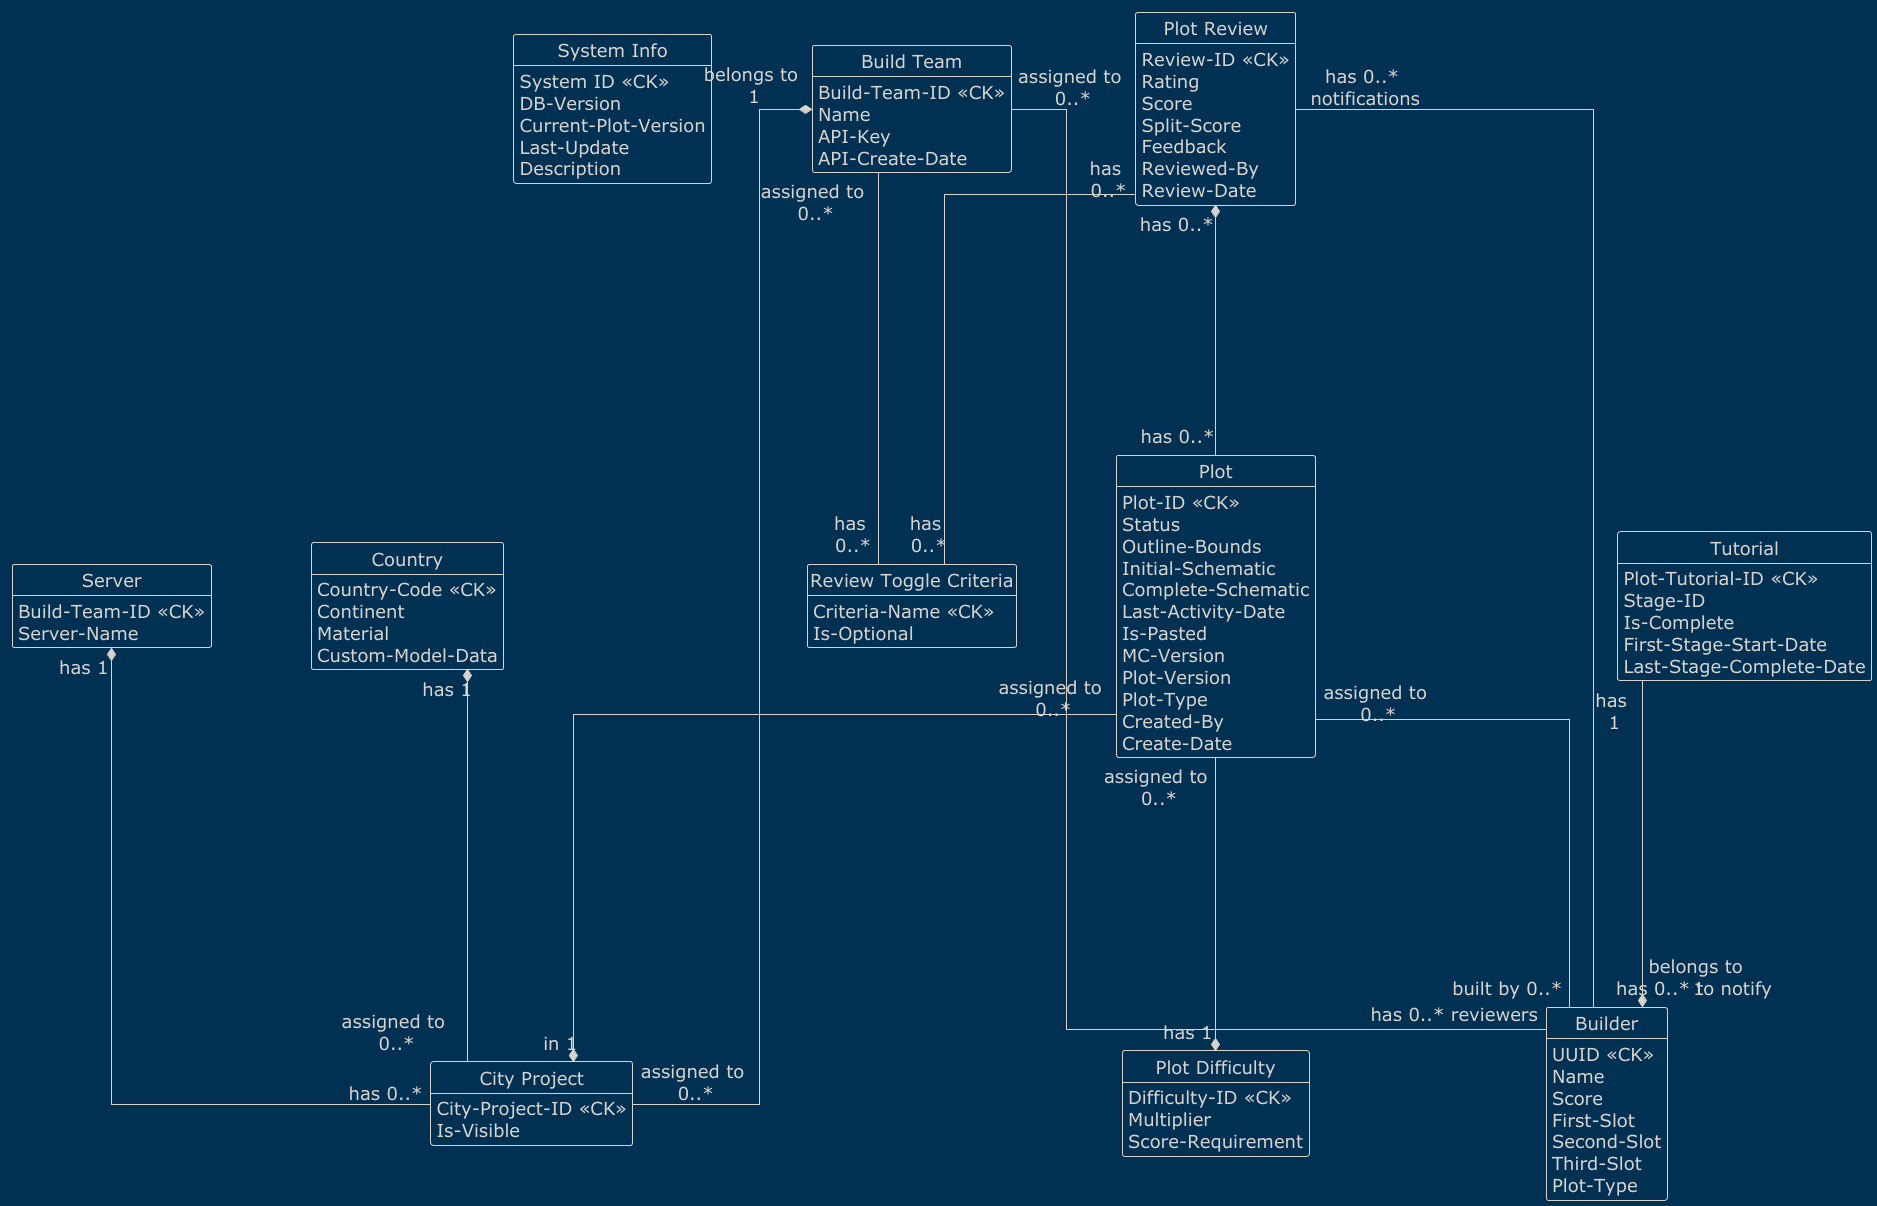
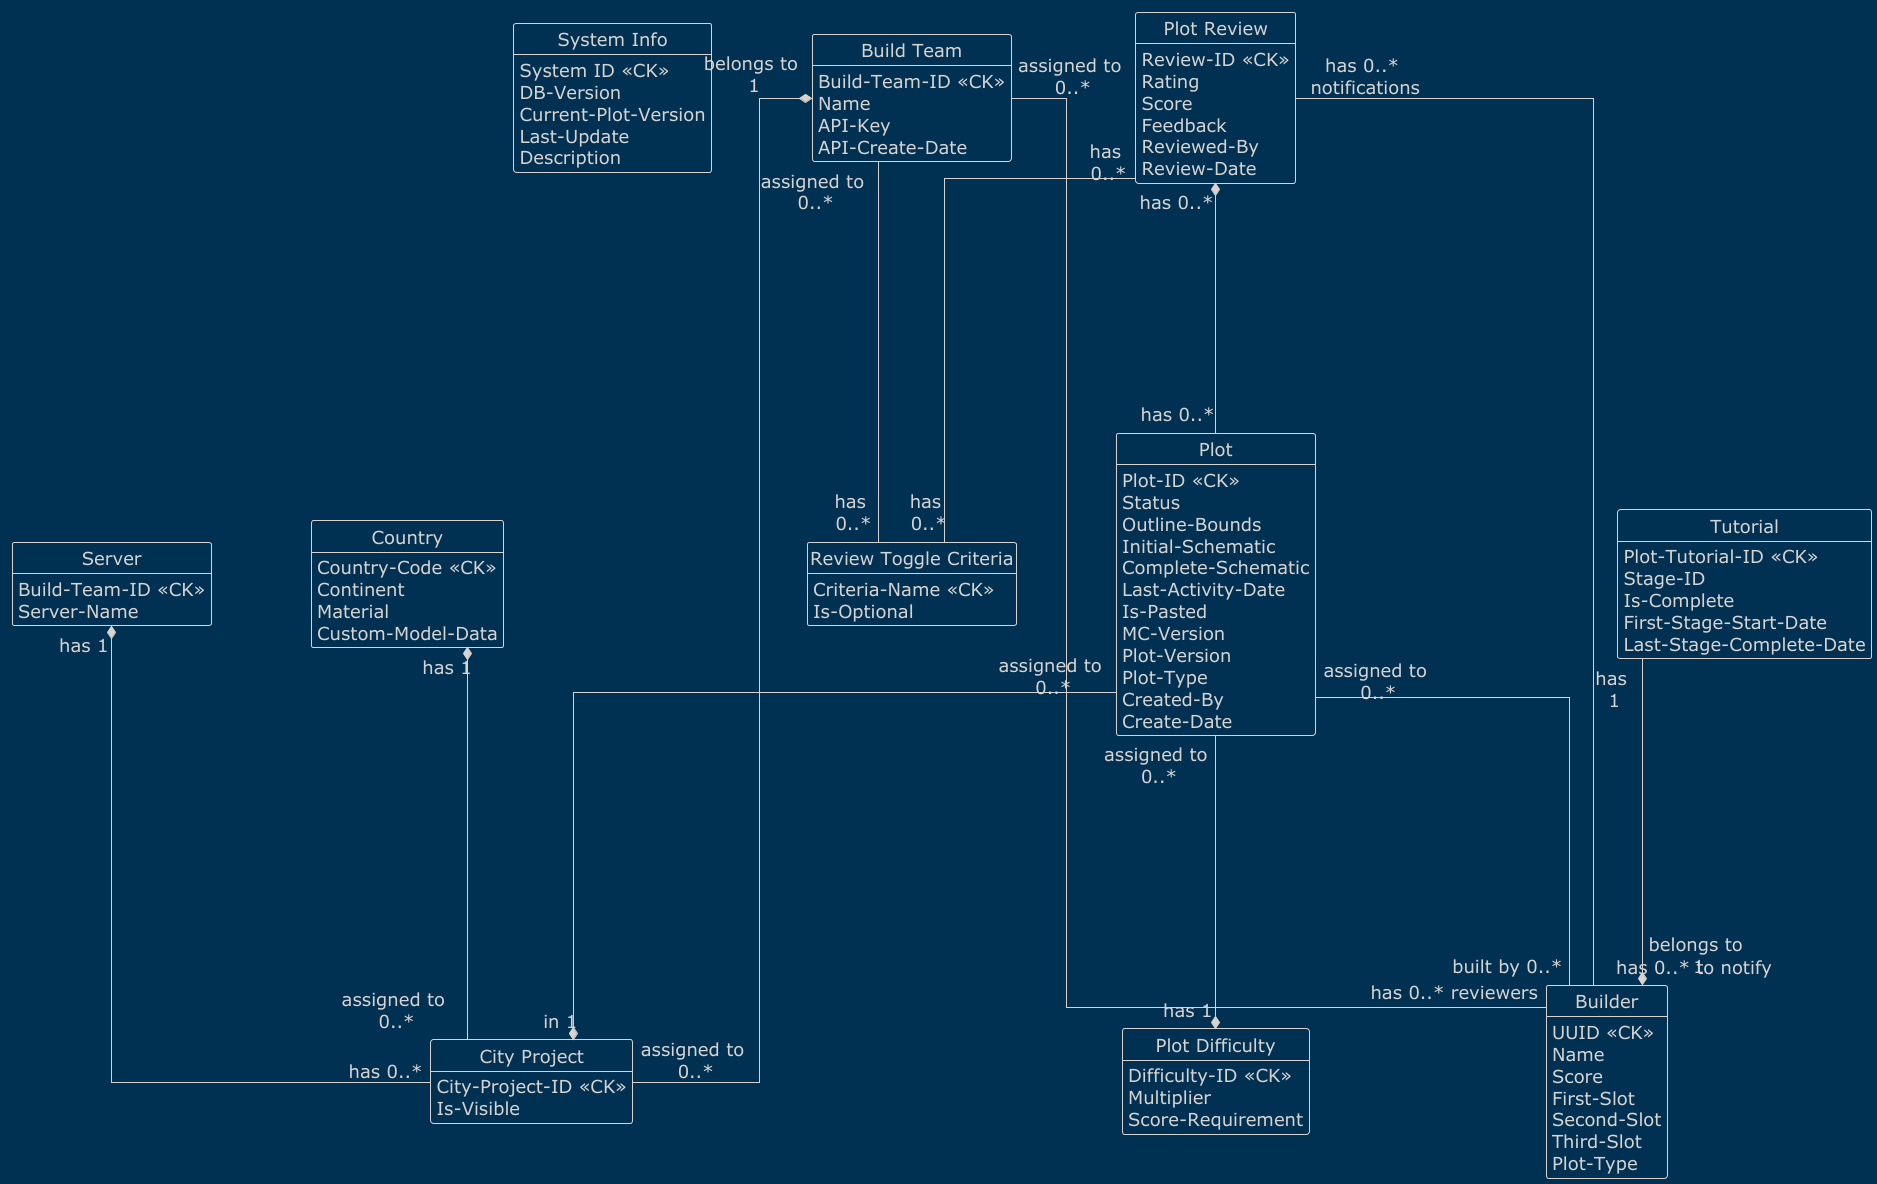
remove split_score column in plot_review table

diff --git a/README.md b/README.md
@@ -120,8 +120,7 @@ build teams, servers, city projects, plots, builders, reviews, and their relatio
   - `review_id`: Unique identifier for the review.
   - `plot_id`: References the reviewed plot.
   - `rating`: Rating given to the plot.
-  - `score`: Overall computed score based on the review criteria.
-  - `split_score`: Score divided equally among all plot members.
+  - `score`: Overall computed score based on the rating, toggle criteria and score multiplier.
   - `feedback`: Optional feedback from the reviewer.
   - `reviewed_by`: Identifier for the user or system that submitted the review.
   - `review_date`: Date and time when the review was submitted.
